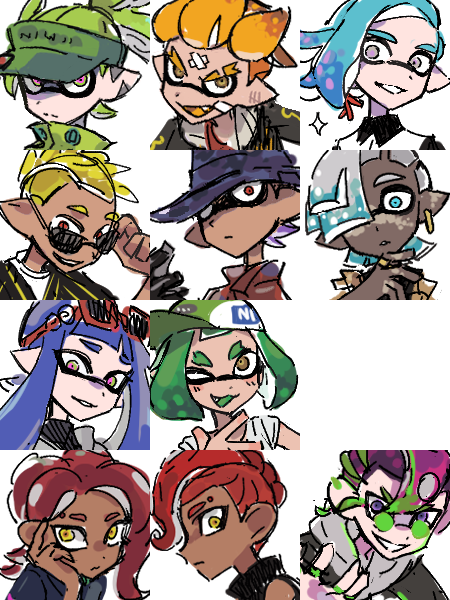
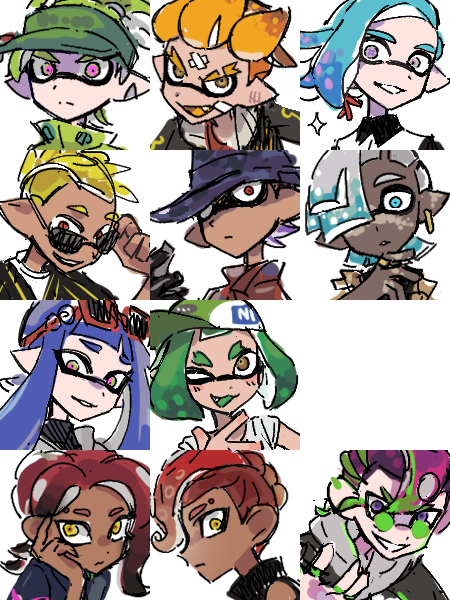
update profile pic and other minor changes

Changed region(s): [[0.0, 0.75, 0.6844, 1.0], [0.0, 0.0, 0.3422, 0.27], [0.6533, 0.0, 1.0, 0.27]]

diff --git a/data/charaData.js b/data/charaData.js
@@ -499,7 +499,8 @@ var bioData_en = [
         ],
         bio: [
             'Hannah was specially neglected by her mother when she was little, and her mother heavily favored the younger brother Blade over her,  this caused Hannah to hold a strong grudge against Blade. After their mother passed away, the grudge soon turned into abuse.',
-            'Splat battle has been an outlet for her anger. As she poured her heart and soul into the games, she became unreasonably good at them. She actively searched for long-term teammates and eventually got Lance, RJ and Minerva to form an elite team. She was actually Captain Cuttlefish\'s the first candidate for Agent 3, but she quitted in order to focus on competitive games, which ultimately made Blade the next Agent 3. Now she only goes back to help when it\'s absolutely necessary.',
+            'Splat battle has been an outlet for her anger. As she poured her heart and soul into the games, she became unreasonably good at them. She actively searched for long-term teammates and eventually got Lance, RJ and Minerva to form an elite team.', 
+            'She was actually Captain Cuttlefish\'s the first candidate for Agent 3, but she quitted in order to focus on competitive games, which ultimately made Blade the next Agent 3. Now she only goes back to help when it\'s absolutely necessary.',
             'She is aware of her flaws and had thought of fixing the relationship with Blade, but gave up after failing to make any attempt, stating "It\'s too late now".'
         ]
     },
@@ -523,7 +524,7 @@ var bioData_en = [
         ],
         bio: [
             'Yoni\'s older brother, he is a childhood friend to both Hannah and Blade. He may look and act intimidating, but he is a very reliable, supportive and caring person. He is also a very organized perfectionist with high standards, he also has incredibly (and sometimes unnecessarily) sharp attention to details. He occasionally bursts out life advice with that poker face of his.',
-            'He was the first member Hannah recruited in Midnight Mayhem, he deals with things Hannah doesn\'t know how to do or had trouble with.',
+            'He was the first member Hannah recruited in Inner Monster, he deals with things Hannah doesn\'t know how to do or had trouble with.',
             'He tries his best to live with his OCPD and is always seen wearing a pair of black gloves. Pop rocks inspired him to pick up Blaster when he was young, now he must eat a pack of pop rocks every morning.'
         ]
     },
@@ -598,7 +599,7 @@ var bioData_en = [
         ],
         bio: [
             'She was raised in the Octarian army since she was very little. She hated the training regimen at first, but eventually she grew attached to the army deeply. She was shown to have no intention to leave even after hearing Squid Sister\'s Calamari Inkantation on that fateful day. She even began to loathe the so-called "surface world" that suddenly came into their life.',
-            'One day she encountered Hannah who was operating as Agent 3 at the time; after engaging in battle, Hannah was committed to recruit Minerva into her team and wanted to bring her to the surface after witnessing Minerva\'s battle skills, but Minerva rejected as she never wanted to leave the Octarian army. After multiple encounters and battles with Hannah, Minerva eventually (and reluctantly) agreed to go with her. She is now a member of Midnight Mayhem, she is still trying to get used to the surface life.'
+            'One day she encountered Hannah who was operating as Agent 3 at the time; after engaging in battle, Hannah was committed to recruit Minerva into her team and wanted to bring her to the surface after witnessing Minerva\'s battle skills, but Minerva rejected as she never wanted to leave the Octarian army. After multiple encounters and battles with Hannah, Minerva eventually (and reluctantly) agreed to go with her. She is now a member of Inner Monster, she is still trying to get used to the surface life.'
         ]
     },
     {

diff --git a/data/charaData_ch.js b/data/charaData_ch.js
@@ -348,7 +348,7 @@ var bioData_ch = [
         ],
         bio: [
             '小布的姐姐。小時候總是被媽媽忽視，因為媽媽非常偏袒弟弟所以對弟弟有極大的心結。在媽媽病逝後，心結更是演變成了家暴。',
-            '漆彈戰鬥就是她的全部，只要心情一不好就會去戰鬥發洩。大概是因為將身心都投入漆彈比賽中所以技術高超，是玩風猛烈的前鋒系。自主拉了蘭斯、RJ、米奈瓦組了一個表現頂尖的隊伍Midnight Mayhem。',
+            '漆彈戰鬥就是她的全部，只要心情一不好就會去戰鬥發洩。大概是因為將身心都投入漆彈比賽中所以技術高超，是玩風猛烈的前鋒系。自主拉了蘭斯、RJ、米奈瓦組了一個表現頂尖的隊伍Inner Monster。',
             "實際上她是當初第一個被司令找上的３號人選，但因為想專注比賽就沒有繼續參與，這也間接導致小布變成下一個３號。目前只有在不得已需要人手時會回去幫忙。",
             '其實對自己的性格問題有一定程度的理解，曾透露出想和弟弟緩解關係的念頭，但還是在沒能做出任何有用的嘗試後放棄，並表示「已經無法回頭了」。',
         ]
@@ -373,7 +373,7 @@ var bioData_ch = [
         ],
         bio: [
             '尤尼的哥哥，從小就認識小布姊弟。看上去總是凶狠又沒表情，實際上是個可靠又很照顧人的傢伙。做事有條有理的高標準完美主義著，經常過度注重細節。三觀端正，常會突然口出人生諫言。',
-            '是漢娜最早拉進Midnight Mayhem的成員，漢娜處理不了的事情都是他在處理。',
+            '是漢娜最早拉進Inner Monster的成員，漢娜處理不了的事情都是他在處理。',
             '努力與自己的OCPD共存中，總是戴著黑手套。小時候因為吃了跳跳糖才喜歡上爆裂槍，現在每天早上一定要吃一包。'
         ]
     },
@@ -446,7 +446,7 @@ var bioData_ch = [
         ],
         bio: [
             '在地下成長，才剛能拿槍就被強迫接受格外嚴苛的訓練，起先過得很不快樂，但是久了對軍團產生深厚的感情，即使聽到了那天潮色姊妹的歌或是有了逃生的機會都沒有打算離開，甚至對陸上世界的出現感到不滿。',
-            '有次在地下對上了以３號身分出勤的漢娜，見到米奈瓦實力的漢娜希望她來陸上加入自己的隊伍，起先米奈瓦毫無意願，但在漢娜堅持不懈多次交戰後終於妥協。就這樣半推半就的到了陸上，目前作為Midnight Mayhem的一員活動中，目前還沒有完全適應陸上生活。'
+            '有次在地下對上了以３號身分出勤的漢娜，見到米奈瓦實力的漢娜希望她來陸上加入自己的隊伍，起先米奈瓦毫無意願，但在漢娜堅持不懈多次交戰後終於妥協。就這樣半推半就的到了陸上，目前作為Inner Monster的一員活動中，目前還沒有完全適應陸上生活。'
         ]
     },
     {
@@ -493,7 +493,7 @@ var bioData_ch = [
         ],
         bio: [
             '身世和來歷都不明的傢伙，他似乎也沒有要透露的意願。',
-            '在對戰圈神出鬼沒，可調閱的戰鬥資歷非常少，狙數跟準度卻高的駭人。跟蘭斯有過不少次生死決鬥，所以不知何時就熟了起來。漢娜也因此有辦法找到他並向他提出加入Midnight Mayhem的請求，RJ雖然答應入隊，但他平常大部分的時間都人間蒸發，看來是在參與什麼可疑活動。'
+            '在對戰圈神出鬼沒，可調閱的戰鬥資歷非常少，狙數跟準度卻高的駭人。跟蘭斯有過不少次生死決鬥，所以不知何時就熟了起來。漢娜也因此有辦法找到他並向他提出加入Inner Monster的請求，RJ雖然答應入隊，但他平常大部分的時間都人間蒸發，看來是在參與什麼可疑活動。'
         ]
     }
 ]

diff --git a/scripts/script.js b/scripts/script.js
@@ -171,8 +171,10 @@ function setUpBioPageFor(charaBioData){
 
     //Fill outfit panel
     var outfitListHTML = ""
-    for(const ourfitData of charaBioData.outfits){
-        outfitListHTML += "<li>"+ ourfitData.name +"</li>";
+    if(charaBioData.outfits.length > 1){
+        for(const ourfitData of charaBioData.outfits){
+            outfitListHTML += "<li>"+ ourfitData.name +"</li>";
+        }
     }
     $(".outfitSelect").html(outfitListHTML);    
     setUpOutfitSwitchEvents(charaBioData);
@@ -319,16 +321,21 @@ function printLinesWithBreak(array, numberOfBr){
     return result;
 }
 
+//======================================//
+//=== Thing to do when window resize ===//
+//======================================//
 
 function checkWindowSize() {
     var windowWidth = $(window).width();
     var windowHeight = $(window).height();
 
+    //control pop up section heights
     if (windowWidth <= 959) {
         $(".md-modal").height(windowHeight);
     }else{
         $(".md-modal").height("auto");        
     }
+    //scroll to center for chart
     if (windowWidth <= 1200) {
         var scrollto = ($("#chart").width() / 2) - ($(".chartWrapper").width() / 2);
         $(".chartWrapper").scrollLeft(scrollto);

diff --git a/styles/style.scss b/styles/style.scss
@@ -530,7 +530,7 @@ ul{
   padding: 0;
   width: 240px;
   height: 200px;
-  bottom: 70px;
+  top: 400px;
   left: 280px;
   z-index: 6;
 }
@@ -757,6 +757,12 @@ ul{
 //   }
 // }
 
+// #simon .nameSticker{
+//   -webkit-animation: glow 1s ease-in-out infinite alternate;
+//   -moz-animation: glow 1s ease-in-out infinite alternate;
+//   animation: glow 1s ease-in-out infinite alternate;    
+// }
+
 @media only screen and (max-width: 1200px) {
   .chartWrapper{
     width: 100%;
@@ -820,7 +826,7 @@ ul{
     margin: 0px 50px 0 auto;
   }
   .bioDetail{
-    margin: 40px 0 50px auto;
+    margin: 40px 0 40px auto;
     padding: 50px 50px 100px 50px;
     width: 75%;
   }
@@ -830,7 +836,7 @@ ul{
   }
   .refSheets{
     margin-top: -110px;
-    padding-bottom: 50px;
+    padding-bottom: 40px;
     width: 90%;
   }
 

diff --git a/styles/style.css b/styles/style.css
@@ -448,7 +448,7 @@ ul {
   padding: 0;
   width: 240px;
   height: 200px;
-  bottom: 70px;
+  top: 400px;
   left: 280px;
   z-index: 6;
 }
@@ -829,7 +829,7 @@ ul {
     margin: 0px 50px 0 auto;
   }
   .bioDetail {
-    margin: 40px 0 50px auto;
+    margin: 40px 0 40px auto;
     padding: 50px 50px 100px 50px;
     width: 75%;
   }
@@ -839,7 +839,7 @@ ul {
   }
   .refSheets {
     margin-top: -110px;
-    padding-bottom: 50px;
+    padding-bottom: 40px;
     width: 90%;
   }
 }

diff --git a/README.md b/README.md
@@ -6,15 +6,15 @@
 - ~~separate the data into different js file or json file instead of having them as variables~~
 - ~~separate data of diff language into diff js files (easier to handle stuff?)~~
 - ~~adjust font style for chinese~~
-- don't show outfit select when there is only one outfit?
+- ~~don't show outfit select when there is only one outfit?~~
 - ~~add lightbox overlay function for image pop-up~~
-- build realtionship info pop-up page ((in progress))
 - ~~fix path animation once and for all!!!!!!~~
 - ~~better scroll bar!!~~
 - ~~fix an issue where the bio detail scroll bar stays at bottom even after switching character??~~
 - ~~add group shapes under chart (as svg?)~~
 - ~~change mouse highlight focus style~~
 - ~~set up actual profile pics~~
+- build realtionship info pop-up page ((in progress))
 - drawing anims for groups
 - build warning pop-up page for TWCC
   - MENTAL/VERBAL ABUSE
